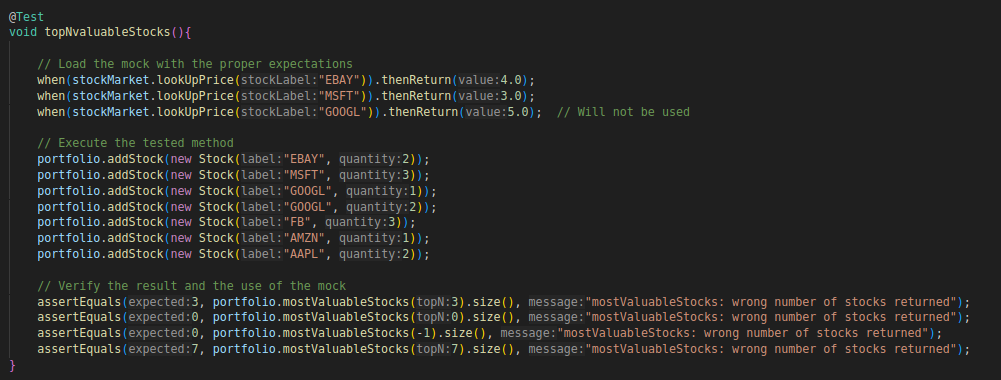
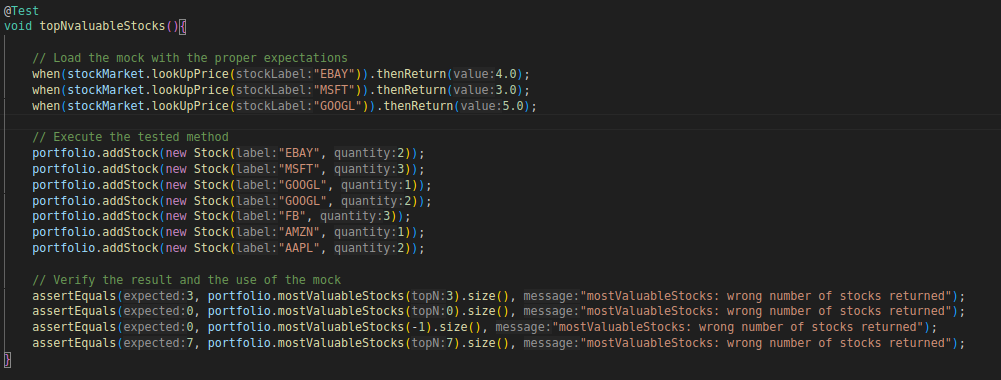
fix Test

diff --git a/lab2/lab2_1stock/src/test/java/StockPortfolioTest.java b/lab2/lab2_1stock/src/test/java/StockPortfolioTest.java
@@ -55,7 +55,7 @@ public class StockPortfolioTest {
         // Load the mock with the proper expectations
         when(stockMarket.lookUpPrice("EBAY")).thenReturn(4.0);
         when(stockMarket.lookUpPrice("MSFT")).thenReturn(3.0);
-        when(stockMarket.lookUpPrice("GOOGL")).thenReturn(5.0);  // Will not be used
+        when(stockMarket.lookUpPrice("GOOGL")).thenReturn(5.0);
 
         // Execute the tested method
         portfolio.addStock(new Stock("EBAY", 2));
